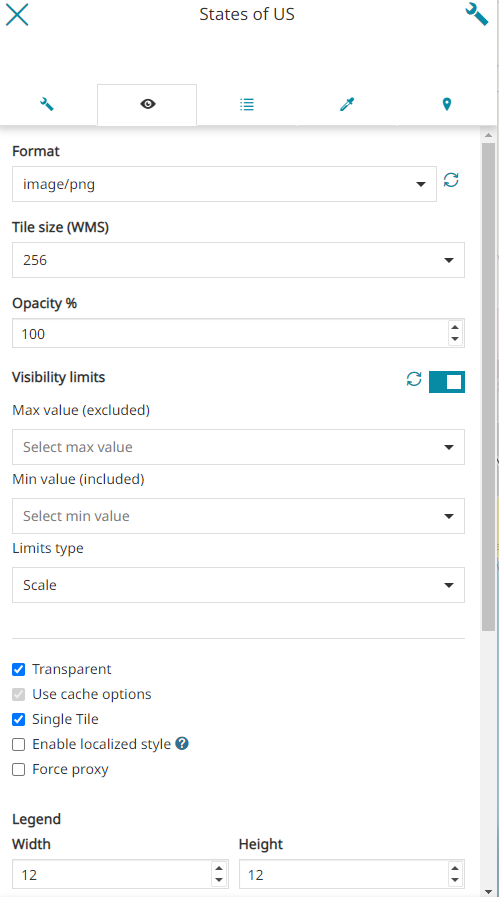
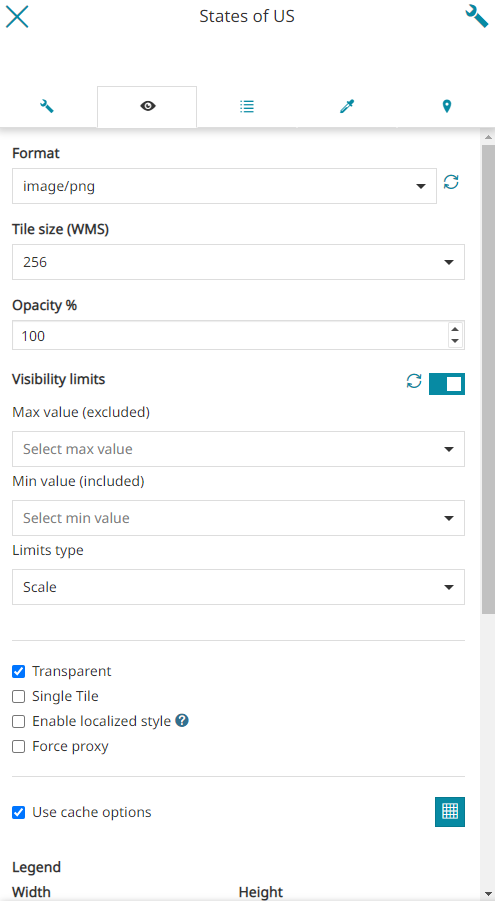
update_9194

diff --git a/docs/user-guide/layer-settings.md b/docs/user-guide/layer-settings.md
@@ -73,13 +73,25 @@ In particular, the user is allowed to:
 
 * Enable/disable the transparency for that layer
 
-* Enable/disable the use of the layer cached tiles  (if checked, the *Tiled=true* URL parameter will be added to the WMS request and to [use tiles cached with GeoWebCache](https://docs.geoserver.org/latest/en/user/geowebcache/using.html#direct-integration-with-geoserver-wms))
-
 * Decide to display the image as a single tile or as multiple tiles
 
 * Enable/disable the localized style. If enabled allows to include the MapStore's locale in each **GetMap**, **GetLegendGraphic** and **GetFeatureInfo** requests to the server, as explained in the [WMS Catalog Settings](catalog.md#wmswmts-catalog)
 
 * Enable/disable the *Force proxy* layer option. If enabled, forces the application to check the source and applies proxy if needed.
+
+* Enable/disable the use of the layer cached tiles. If checked, the *Tiled=true* URL parameter will be added to the WMS request and to [use tiles cached with GeoWebCache](https://docs.geoserver.org/latest/en/user/geowebcache/using.html#direct-integration-with-geoserver-wms) and the **Remote custom tile grids** <img src="../img/button/tile_grid.jpg" class="ms-docbutton"/> button appears to inform the user of the available grid sets on the server side.
+
+!!!note
+    When the **Remote custom tile grids** button is enabled, it turns green <img src="../img/button/tile_grid_green.jpg" class="ms-docbutton"/> and the user is enabled to:
+
+    * Update tile grids available server side though the <img src="../img/button/update_button.jpg" class="ms-docbutton"/> button.
+
+    * Hover over the info icon <img src="../img/button/info_ion.jpg" class="ms-docbutton"/> to open the *Available Tile Grids* panel. The tile grid currently in use is highlighted in green.
+    <img src="../img/layer-settings/green_info.jpg" class="ms-docimage"  style="max-width:300px;"/>
+
+    The Info panel shows a warning message if it's not possible to find a tile grid that matches the map projection and selected tile size. In this case, the user can change the [projection of the map](footer.md#crs-selector) or select a different [tile size](layer-settings.md#display).
+
+    <img src="../img/layer-settings/warning_info.jpg" class="ms-docimage"  style="max-width:300px;"/>
 
 * Set the layer *Legend* with custom *Width* and *Height* options. Both of these field values if greater than the default legend's size of 12, then the custom values gets applied on the legend width and height display property
 
